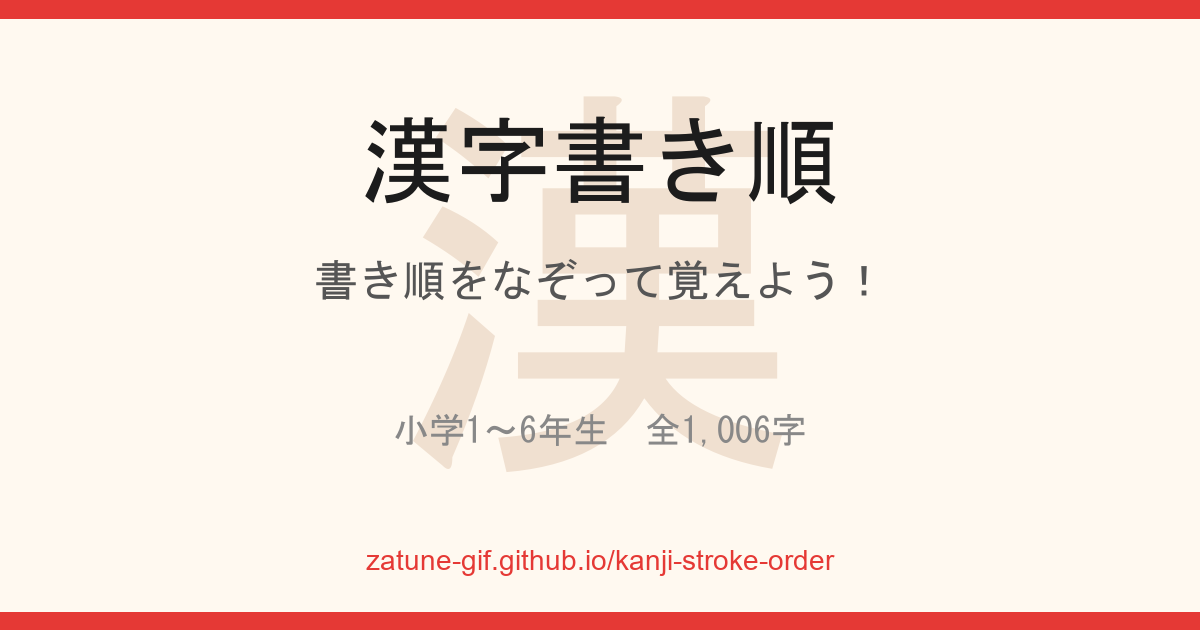
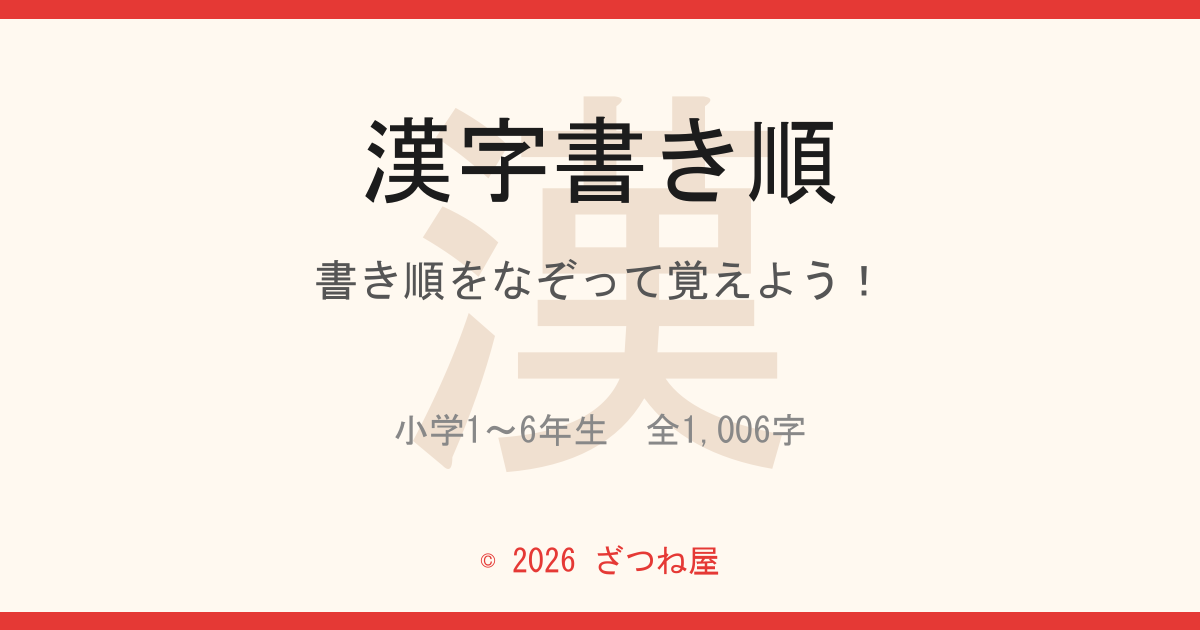
fix: replace URL with copyright in og-image thumbnail

Changed region(s): [[0.3083, 0.8444, 0.7092, 0.9349]]

diff --git a/scripts/gen_ogimage.py b/scripts/gen_ogimage.py
@@ -62,10 +62,10 @@ if HAS_PILLOW:
     except Exception:
         pass
 
-    # URL
+    # Copyright
     try:
-        font_url = ImageFont.truetype('C:/Windows/Fonts/arial.ttf', 28)
-        draw.text((W//2, 560), 'zatune-gif.github.io/kanji-stroke-order', font=font_url, fill='#E53935', anchor='mm')
+        font_copy = ImageFont.truetype('C:/Windows/Fonts/msgothic.ttc', 32)
+        draw.text((W//2, 560), '© 2026 ざつね屋', font=font_copy, fill='#E53935', anchor='mm')
     except Exception:
         pass
 